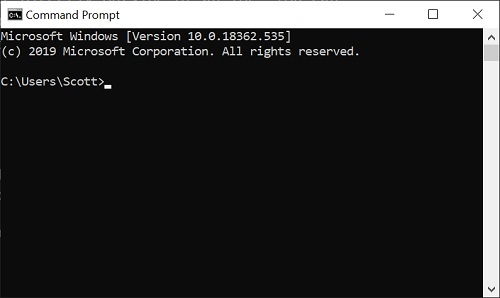
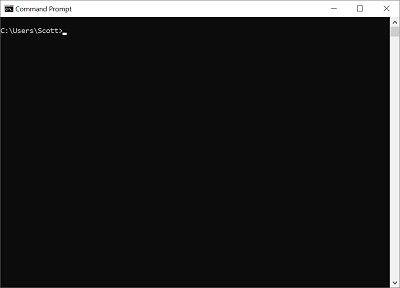
edit

Changed region(s): [[0.0, 0.0, 1.0, 1.0], [0.0, 0.25, 0.24, 0.3125]]

diff --git a/docs/_pages/2.0-vim.md b/docs/_pages/2.0-vim.md
@@ -60,7 +60,7 @@ for the 64-bit version.
 <p>Once Vim has been downloaded and installed, open up a command prompt or use Windows PowerShell. Type "cmd" or "PowerShell" in Windows search and press enter.</p>  
 
 <p align="center">
-<img width="500" height="369" src="images\gcc_compiler\command-prompt.jpg" title="Windows Command Prompt">
+<img width="400" height="288" src="images\gcc_compiler\command-prompt.jpg" title="Windows Command Prompt">
 </p>
 
 <p>If you typed "cmd" a new black console window should open, PowerShell is much the same but with a blue background and of course much more functionality, but the basic syntax is the same for our purposes.</p>
